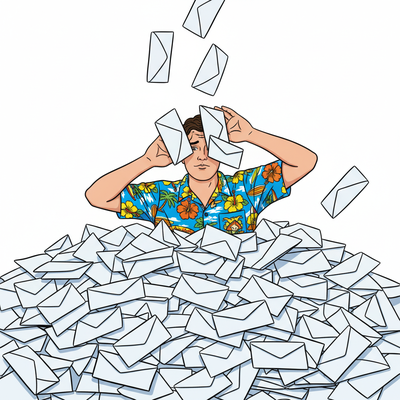
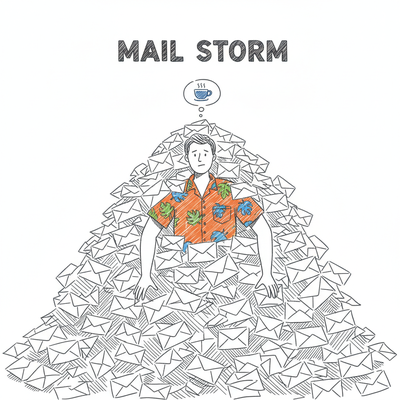
Update

diff --git a/regen_sketch.py b/regen_sketch.py
@@ -1,0 +1,136 @@
+"""Regenerate ALL thumbnails - SKETCH STYLE with Joe's color palette."""
+import httpx
+import base64
+import os
+import time
+from pathlib import Path
+from PIL import Image, ImageOps
+from io import BytesIO
+
+# Style: Hand-drawn sketch, diagonal hatching, fills frame
+# Colors: Orange #FF6B35, Blue #4A90E2, Green #7FB069, Lines #2D3142, Background white
+
+STYLE = """Hand-drawn sketch-note style. FILLS ENTIRE FRAME edge to edge.
+Diagonal hatching for shading (NOT solid fills).
+Colors: orange #FF6B35, blue #4A90E2, green #7FB069, dark gray lines #2D3142.
+Pure white background. Clean minimalist. No drop shadows. No realistic rendering."""
+
+THEMES = [
+    ("passive-aggressive", "Large yellow sticky note with unsettling too-wide smiley face. Note fills 90% of frame. Orange hatching accents."),
+    ("existential-dread", "Tiny figure pushing boulder up steep hill into darkness above. Blue and orange hatching. Dramatic, fills frame."),
+    ("ai-hype", "Eldritch tentacled creature wearing cheerful smiley face mask. Purple-blue hatching on tentacles. Creature fills entire frame."),
+    ("robert-greene", "Large chess pawn casting shadow shaped like king crown. Pawn fills left half, dramatic shadow fills right. Bold contrast."),
+    ("fran-lebowitz", "Typewriter with blank page, overflowing ashtray with cigarettes. Objects large, fill frame. Orange hatching on ashtray."),
+    ("silicon-valley", "Large compass with needle spinning wildly, motion lines. Compass fills 90% of frame. Blue and orange accents."),
+    ("tech-bro", "Person meditating serenely inside ice cube. Ice cube fills entire frame corner to corner. Blue hatching for ice."),
+    ("product-manager", "Aerial view of parking lot packed with cars, tiny lightbulbs on roofs. Cars fill entire frame. Colorful hatching."),
+    ("rto-excuses", "Large office badge on lanyard, badge shows sad face behind bars. Badge fills 80% of frame. Blue lanyard."),
+    ("back-from-vacation", "Person in Hawaiian shirt buried under pile of envelopes. Fills frame. Orange shirt, white envelopes."),
+    ("iphone-user", "Large green speech bubble with embarrassed blushing face, sweat drops. Bubble fills 90% of frame. Green #7FB069."),
+    ("android-user", "Smartphone as swiss army knife with tools popping out chaotically. Phone fills entire frame. Colorful tool accents."),
+    ("marathon-identity", "Huge oval 26.2 bumper sticker covering tiny car beneath. Sticker dominates 80% of image. Bold outline."),
+    ("the-shining", "Typewriter close-up with paper showing same line repeated obsessively. Typewriter fills frame. Orange accents."),
+    ("dark-tower", "Single rose growing through cracked concrete, dark tower silhouette in background. Rose large, fills bottom half. Orange rose."),
+    ("therapy-speak", "Large circular feelings wheel, segments in orange/blue/green, word VALID in center. Wheel fills entire frame."),
+    ("performative", "Two large cupped hands held reverently, soft glow from empty space between. Hands fill frame. Orange glow."),
+    ("i-claudius", "Ornate Roman bowl overflowing with figs, one fig has tiny skull. Bowl fills entire frame. Green figs, orange bowl accents."),
+    ("sql-server", "Graph with flat line labeled 1 at bottom, another line shooting up exponentially. Graph fills frame. Blue/orange lines."),
+    ("layoff-speak", "Cardboard box with laptop, wilted plant, lanyard hanging over edge. Box fills 90% of frame. Sad green plant."),
+    ("small-store", "Bird's eye view of person walking in circle inside tiny shop, dotted footprint trail. Fills entire frame. Orange path."),
+    ("ending-phone-call", "Three speech bubbles with waving hands, each more frantic. Bubbles fill frame top to bottom. Blue bubbles."),
+    ("week-in-france", "Smug croissant wearing beret looking down at sad bagel. Both large, fill frame. Orange croissant, blue accents."),
+    ("dorinda-medley", "Mounted fish trophy on plaque, fish has worried expression. Fish fills entire frame. Blue-green fish."),
+    ("twin-peaks", "Coffee percolator with fish swimming inside instead of coffee. Percolator fills frame. Orange fish, blue-gray tones."),
+    ("breaking-bad", "Chemistry beaker with blue crystals inside, on periodic table square Br Ba. Beaker fills 80% of frame. Blue #4A90E2 crystals."),
+    ("better-call-saul", "Sleazy lawyer doing finger guns next to waving inflatable tube man. Both fill frame. Orange tube man."),
+]
+
+
+def autocrop(img, padding=5):
+    if img.mode in ('RGBA', 'P'):
+        bg = Image.new('RGB', img.size, (255, 255, 255))
+        if img.mode == 'RGBA':
+            bg.paste(img, mask=img.split()[3])
+        else:
+            bg.paste(img)
+        img = bg
+    inv = ImageOps.invert(img)
+    bbox = inv.getbbox()
+    if bbox:
+        l, t, r, b = bbox
+        l, t = max(0, l - padding), max(0, t - padding)
+        r, b = min(img.width, r + padding), min(img.height, b + padding)
+        w, h = r - l, b - t
+        size = max(w, h)
+        cx, cy = (l + r) // 2, (t + b) // 2
+        nl, nt = cx - size // 2, cy - size // 2
+        nr, nb = nl + size, nt + size
+        if nl < 0: nr -= nl; nl = 0
+        if nt < 0: nb -= nt; nt = 0
+        if nr > img.width: nl -= (nr - img.width); nr = img.width
+        if nb > img.height: nt -= (nb - img.height); nb = img.height
+        img = img.crop((max(0, nl), max(0, nt), min(img.width, nr), min(img.height, nb)))
+    return img.resize((400, 400), Image.Resampling.LANCZOS)
+
+
+def generate(name, desc, output_dir):
+    api_key = os.environ.get("OPENROUTER_API_KEY")
+    output_path = output_dir / f"{name}.png"
+    prompt = f"{STYLE}\n\nSubject: {desc}"
+    print(f"Generating: {name}...")
+
+    try:
+        response = httpx.post(
+            "https://openrouter.ai/api/v1/chat/completions",
+            headers={
+                "Authorization": f"Bearer {api_key}",
+                "Content-Type": "application/json",
+                "HTTP-Referer": "https://joesack.com",
+                "X-Title": "Spinner Thumbnails"
+            },
+            json={
+                "model": "google/gemini-2.5-flash-image",
+                "messages": [{"role": "user", "content": prompt}],
+                "image_config": {"aspect_ratio": "1:1"}
+            },
+            timeout=120.0
+        )
+
+        if response.status_code != 200:
+            print(f"  ERROR: {response.status_code}")
+            return False
+
+        data = response.json()
+        msg = data.get("choices", [{}])[0].get("message", {})
+        if "images" not in msg:
+            print(f"  ERROR: No images")
+            return False
+
+        url = msg["images"][0]["image_url"]["url"]
+        _, b64 = url.split(",", 1)
+        img = Image.open(BytesIO(base64.b64decode(b64)))
+        img = autocrop(img)
+        img.save(output_path)
+        print(f"  OK")
+        return True
+
+    except Exception as e:
+        print(f"  ERROR: {e}")
+        return False
+
+
+def main():
+    output_dir = Path(__file__).parent / "thumbnails"
+    output_dir.mkdir(exist_ok=True)
+
+    success = 0
+    for name, desc in THEMES:
+        if generate(name, desc, output_dir):
+            success += 1
+        time.sleep(1.5)
+
+    print(f"\nDone: {success}/{len(THEMES)}")
+
+
+if __name__ == "__main__":
+    main()

diff --git a/README.md b/README.md
@@ -12,13 +12,13 @@ Custom spinner verb collections for [Claude Code](https://claude.ai/claude-code)
 <img src="thumbnails/product-manager.png" width="220"><br>
 <b>Product Manager</b><br>
 <i>"Parking lot that" / "Double-clicking on that"</i><br>
-<a href="product-manager.json">JSON</a>
+<a href="themes/product-manager.json">JSON</a>
 </td>
 <td align="center" width="50%">
 <img src="thumbnails/passive-aggressive.png" width="220"><br>
 <b>Passive Aggressive</b><br>
 <i>"Per my last email" / "Noted"</i><br>
-<a href="passive-aggressive.json">JSON</a>
+<a href="themes/passive-aggressive.json">JSON</a>
 </td>
 </tr>
 <tr>
@@ -26,13 +26,13 @@ Custom spinner verb collections for [Claude Code](https://claude.ai/claude-code)
 <img src="thumbnails/rto-excuses.png" width="220"><br>
 <b>RTO Excuses</b><br>
 <i>"Serendipitous encounters" / "Badge swipes don't lie"</i><br>
-<a href="rto-excuses.json">JSON</a>
+<a href="themes/rto-excuses.json">JSON</a>
 </td>
 <td align="center">
 <img src="thumbnails/back-from-vacation.png" width="220"><br>
 <b>Back From Vacation</b><br>
 <i>"I forgot my password" / "My inbox is a disaster"</i><br>
-<a href="back-from-vacation.json">JSON</a>
+<a href="themes/back-from-vacation.json">JSON</a>
 </td>
 </tr>
 <tr>
@@ -40,13 +40,13 @@ Custom spinner verb collections for [Claude Code](https://claude.ai/claude-code)
 <img src="thumbnails/layoff-speak.png" width="220"><br>
 <b>Layoff Speak</b><br>
 <i>"Right-sizing the organization" / "Laptop return instructions"</i><br>
-<a href="layoff-speak.json">JSON</a>
+<a href="themes/layoff-speak.json">JSON</a>
 </td>
 <td align="center">
 <img src="thumbnails/sql-server.png" width="220"><br>
 <b>SQL Server</b><br>
 <i>"Estimating 1 row" / "CXPACKET"</i><br>
-<a href="sql-server.json">JSON</a>
+<a href="themes/sql-server.json">JSON</a>
 </td>
 </tr>
 </table>
@@ -61,13 +61,13 @@ Custom spinner verb collections for [Claude Code](https://claude.ai/claude-code)
 <img src="thumbnails/tech-bro.png" width="220"><br>
 <b>Tech Bro</b><br>
 <i>"Cold plunge" / "Few understand"</i><br>
-<a href="tech-bro.json">JSON</a>
+<a href="themes/tech-bro.json">JSON</a>
 </td>
 <td align="center" width="50%">
 <img src="thumbnails/silicon-valley.png" width="220"><br>
 <b>Silicon Valley</b><br>
 <i>"Pivoting again" / "Default dead"</i><br>
-<a href="silicon-valley.json">JSON</a>
+<a href="themes/silicon-valley.json">JSON</a>
 </td>
 </tr>
 <tr>
@@ -75,13 +75,13 @@ Custom spinner verb collections for [Claude Code](https://claude.ai/claude-code)
 <img src="thumbnails/ai-hype.png" width="220"><br>
 <b>AI Hype</b><br>
 <i>"AGI was last Tuesday" / "Shoggoth with a smiley face"</i><br>
-<a href="ai-hype.json">JSON</a>
+<a href="themes/ai-hype.json">JSON</a>
 </td>
 <td align="center">
 <img src="thumbnails/iphone-user.png" width="220"><br>
 <b>iPhone User</b><br>
 <i>"Green bubbles are gross" / "My battery health is 84%"</i><br>
-<a href="iphone-user.json">JSON</a>
+<a href="themes/iphone-user.json">JSON</a>
 </td>
 </tr>
 <tr>
@@ -89,7 +89,7 @@ Custom spinner verb collections for [Claude Code](https://claude.ai/claude-code)
 <img src="thumbnails/android-user.png" width="220"><br>
 <b>Android User</b><br>
 <i>"Android did that first" / "It's not bloatware, it's features"</i><br>
-<a href="android-user.json">JSON</a>
+<a href="themes/android-user.json">JSON</a>
 </td>
 <td align="center">
 </td>
@@ -106,13 +106,13 @@ Custom spinner verb collections for [Claude Code](https://claude.ai/claude-code)
 <img src="thumbnails/therapy-speak.png" width="220"><br>
 <b>Therapy Speak</b><br>
 <i>"That's valid" / "Healing isn't linear"</i><br>
-<a href="therapy-speak.json">JSON</a>
+<a href="themes/therapy-speak.json">JSON</a>
 </td>
 <td align="center" width="50%">
 <img src="thumbnails/performative.png" width="220"><br>
 <b>Performative</b><br>
 <i>"Holding space" / "Protecting my energy"</i><br>
-<a href="performative.json">JSON</a>
+<a href="themes/performative.json">JSON</a>
 </td>
 </tr>
 <tr>
@@ -120,13 +120,13 @@ Custom spinner verb collections for [Claude Code](https://claude.ai/claude-code)
 <img src="thumbnails/small-store.png" width="220"><br>
 <b>Small Store</b><br>
 <i>"Walking the same loop again" / "The pity purchase"</i><br>
-<a href="small-store.json">JSON</a>
+<a href="themes/small-store.json">JSON</a>
 </td>
 <td align="center">
 <img src="thumbnails/ending-phone-call.png" width="220"><br>
 <b>Ending Phone Call</b><br>
 <i>"Thought we said goodbye" / "The triple bye"</i><br>
-<a href="ending-phone-call.json">JSON</a>
+<a href="themes/ending-phone-call.json">JSON</a>
 </td>
 </tr>
 <tr>
@@ -134,13 +134,13 @@ Custom spinner verb collections for [Claude Code](https://claude.ai/claude-code)
 <img src="thumbnails/week-in-france.png" width="220"><br>
 <b>Week in France</b><br>
 <i>"Raw milk cheese changed me" / "Bidet convert"</i><br>
-<a href="week-in-france.json">JSON</a>
+<a href="themes/week-in-france.json">JSON</a>
 </td>
 <td align="center">
 <img src="thumbnails/marathon-identity.png" width="220"><br>
 <b>Marathon Identity</b><br>
 <i>"Did I mention I ran a marathon?" / "Actually, 26.219"</i><br>
-<a href="marathon-identity.json">JSON</a>
+<a href="themes/marathon-identity.json">JSON</a>
 </td>
 </tr>
 </table>
@@ -155,13 +155,13 @@ Custom spinner verb collections for [Claude Code](https://claude.ai/claude-code)
 <img src="thumbnails/existential-dread.png" width="220"><br>
 <b>Existential Dread</b><br>
 <i>"Staring into the void" / "One must imagine Sisyphus happy"</i><br>
-<a href="existential-dread.json">JSON</a>
+<a href="themes/existential-dread.json">JSON</a>
 </td>
 <td align="center" width="50%">
 <img src="thumbnails/robert-greene.png" width="220"><br>
 <b>Robert Greene</b><br>
 <i>"Saying less than necessary" / "Letting them hang themselves"</i><br>
-<a href="robert-greene.json">JSON</a>
+<a href="themes/robert-greene.json">JSON</a>
 </td>
 </tr>
 <tr>
@@ -169,7 +169,7 @@ Custom spinner verb collections for [Claude Code](https://claude.ai/claude-code)
 <img src="thumbnails/fran-lebowitz.png" width="220"><br>
 <b>Fran Lebowitz</b><br>
 <i>"Still not writing the book" / "No one asked for my opinion but"</i><br>
-<a href="fran-lebowitz.json">JSON</a>
+<a href="themes/fran-lebowitz.json">JSON</a>
 </td>
 <td align="center">
 </td>
@@ -186,13 +186,13 @@ Custom spinner verb collections for [Claude Code](https://claude.ai/claude-code)
 <img src="thumbnails/i-claudius.png" width="220"><br>
 <b>I, Claudius</b><br>
 <i>"Letting all the poisons hatch" / "Poisoning the figs"</i><br>
-<a href="i-claudius.json">JSON</a>
+<a href="themes/i-claudius.json">JSON</a>
 </td>
 <td align="center" width="50%">
 <img src="thumbnails/twin-peaks.png" width="220"><br>
 <b>Twin Peaks</b><br>
 <i>"Fish in the percolator" / "The owls are not what they seem"</i><br>
-<a href="twin-peaks.json">JSON</a>
+<a href="themes/twin-peaks.json">JSON</a>
 </td>
 </tr>
 <tr>
@@ -200,13 +200,13 @@ Custom spinner verb collections for [Claude Code](https://claude.ai/claude-code)
 <img src="thumbnails/the-shining.png" width="220"><br>
 <b>The Shining</b><br>
 <i>"All work and no play" / "Always been the caretaker"</i><br>
-<a href="the-shining.json">JSON</a>
+<a href="themes/the-shining.json">JSON</a>
 </td>
 <td align="center">
 <img src="thumbnails/dark-tower.png" width="220"><br>
 <b>Dark Tower</b><br>
 <i>"The world has moved on" / "Blaine is a pain"</i><br>
-<a href="dark-tower.json">JSON</a>
+<a href="themes/dark-tower.json">JSON</a>
 </td>
 </tr>
 <tr>
@@ -214,13 +214,13 @@ Custom spinner verb collections for [Claude Code](https://claude.ai/claude-code)
 <img src="thumbnails/breaking-bad.png" width="220"><br>
 <b>Breaking Bad</b><br>
 <i>"No half measures" / "I am the one who knocks"</i><br>
-<a href="breaking-bad.json">JSON</a>
+<a href="themes/breaking-bad.json">JSON</a>
 </td>
 <td align="center">
 <img src="thumbnails/better-call-saul.png" width="220"><br>
 <b>Better Call Saul</b><br>
 <i>"Squat cobbler" / "Slippin' Jimmy"</i><br>
-<a href="better-call-saul.json">JSON</a>
+<a href="themes/better-call-saul.json">JSON</a>
 </td>
 </tr>
 <tr>
@@ -228,7 +228,7 @@ Custom spinner verb collections for [Claude Code](https://claude.ai/claude-code)
 <img src="thumbnails/dorinda-medley.png" width="220"><br>
 <b>Dorinda Medley</b><br>
 <i>"I made it nice!" / "Assigning the fish room"</i><br>
-<a href="dorinda-medley.json">JSON</a>
+<a href="themes/dorinda-medley.json">JSON</a>
 </td>
 <td align="center">
 </td>
